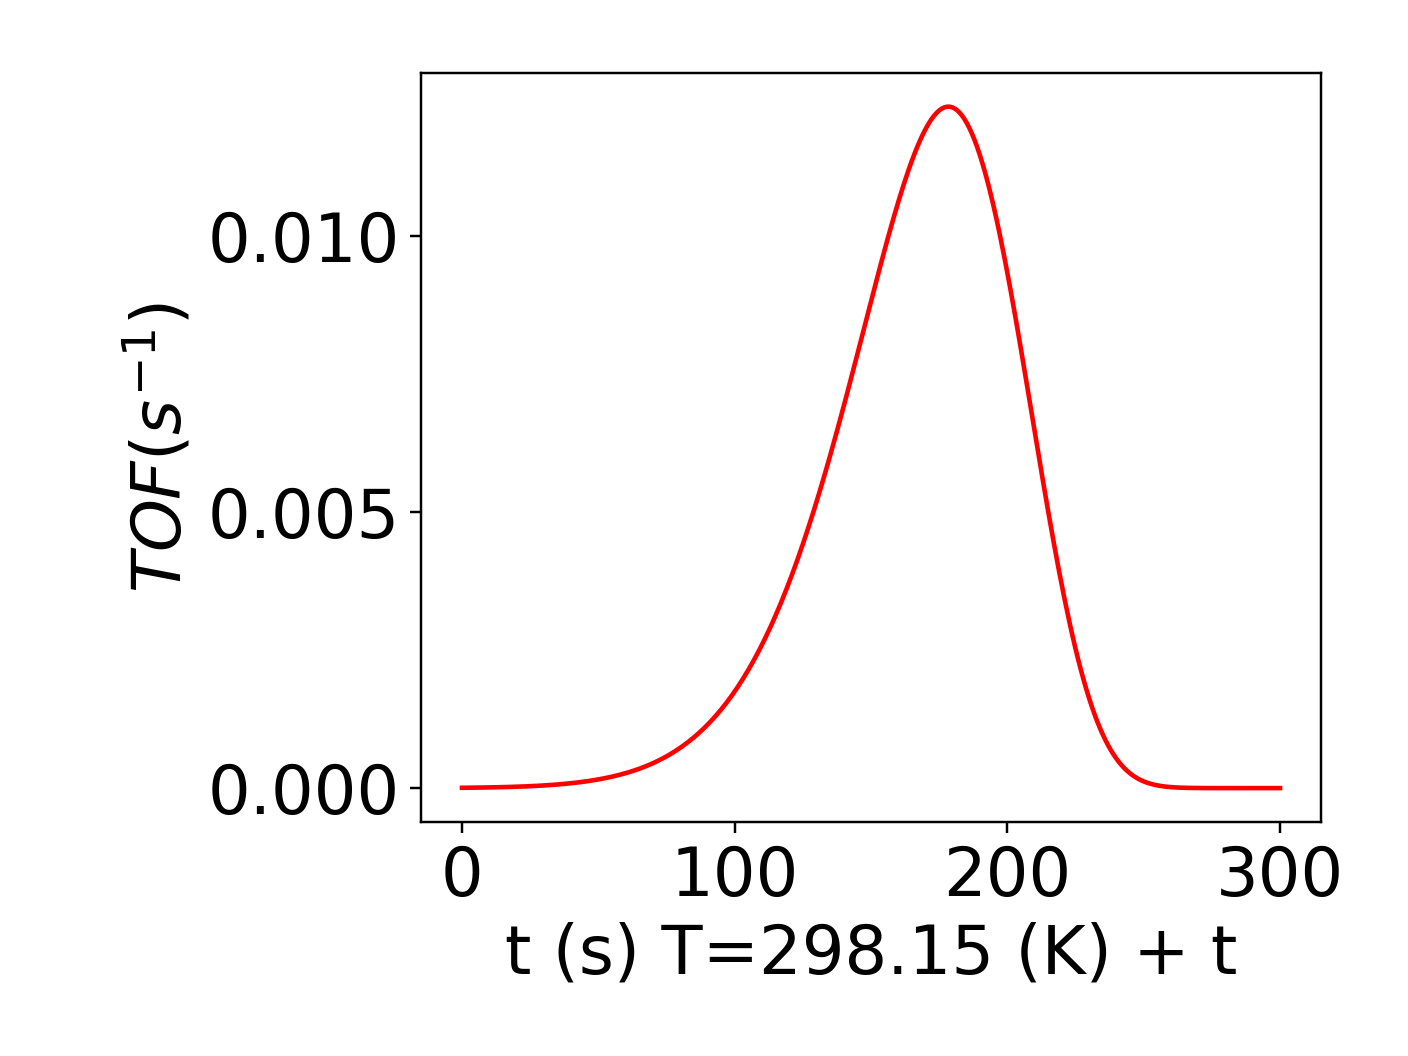
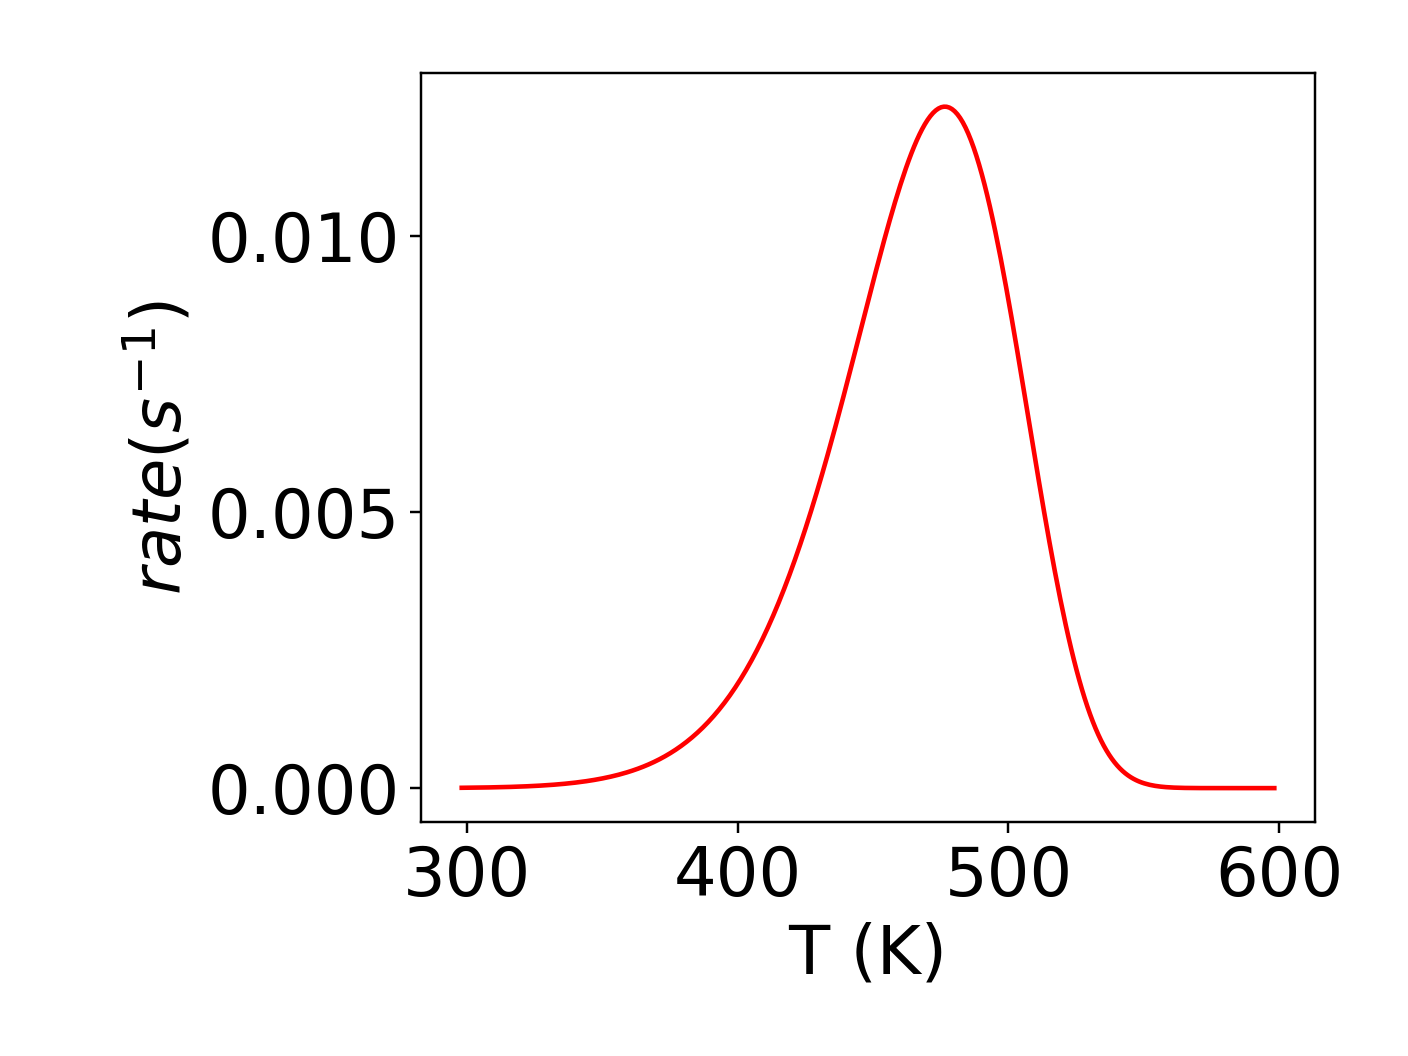
Metropolis-Hastings sampling of the posterior of Bayes's formula for the temperature programmed reaction on CeO2(111).

diff --git a/run_me.py b/run_me.py
@@ -1,0 +1,145 @@
+import numpy as np
+import matplotlib
+import matplotlib.pyplot as plt
+from mpl_toolkits.mplot3d import Axes3D
+import scipy
+from scipy.stats import multivariate_normal
+from scipy.integrate import odeint
+import pandas as pd
+from tprmodel import tprequation
+class ip:
+    #Ip for 'inverse problem'. Initialize prior chain starting point, chain burn-in length and total length, and Q (for proposal samples).  Initialize experimental data.  Theta is initialized as the starting point of the chain.  It is placed at the prior mean.
+    mcmc_length = 1000
+    mcmc_burn_in = 100 # Number of samples trimmed off the beginning of the Markov chain.
+    mu_prior = np.array([41.5, 41.5, 13.0, 13.0, 0.1, 0.1]) # Ea1_mean, Ea2_mean, log_A1_mean, log_A2_mean, gamma_1_mean, gamma_2_mean
+    cov_prior = np.array([[20.0, 0., 0., 0., 0., 0.],
+                          [0., 20.0, 0., 0., 0., 0.],
+                          [0., 0., 13.0, 0., 0., 0.],
+                          [0., 0., 0., 13.0, 0., 0.],
+                          [0., 0., 0., 0., 0.1, 0.],
+                          [0., 0., 0., 0., 0., 0.1]])
+    experiments_df = pd.read_csv('ExperimentalDataAcetaldehydeTPDCeO2111MullinsTruncatedLargerErrors.csv')
+    dT = experiments_df['dT'][0] # assuming dT and dt are constant throughout
+    dt = experiments_df['dt'][0]
+    start_T = experiments_df['AcH - T'][0]
+    times = experiments_df['time'].to_numpy()
+    experiment = experiments_df['AcHBackgroundSubtracted'].to_numpy()/1000
+    errors = experiments_df['Errors'].to_numpy()
+    Q_mu = np.array([0.,0.,0.,0.,0.,0.]) # Q samples the next step at any point in the chain.  The next step may be accepted or rejected.  Q_mu is centered (0) around the current theta.
+    Q_cov = cov_prior/20 # Take small steps.
+
+    #main function to get samples
+    def MetropolisHastings(self):
+        samples = np.zeros((self.mcmc_length,len(self.mu_prior)))
+        samples[0,:] = self.mu_prior # Initialize the chain. Theta is initialized as the starting point of the chain.  It is placed at the prior mean.
+        likelihoods_vec = np.zeros((self.mcmc_length,1))
+        posteriors_un_normed_vec = np.zeros((self.mcmc_length,1))
+        priors_vec = np.zeros((self.mcmc_length,1))
+        for i in range(1,self.mcmc_length):
+            print(i)
+            proposal_sample = samples[i-1,:] + np.random.multivariate_normal(self.Q_mu,self.Q_cov)
+            prior_proposal = self.prior(proposal_sample)
+            likelihood_proposal = self.likelihood(proposal_sample)
+            prior_current_location = self.prior(samples[i-1,:])
+            likelihood_current_location = self.likelihood(samples[i-1,:])
+            accept_pro = (likelihood_proposal*prior_proposal)/(likelihood_current_location*prior_current_location)
+            uni_rand = np.random.uniform()
+            if uni_rand<accept_pro:
+                samples[i,:] = proposal_sample
+                posteriors_un_normed_vec[i] = likelihood_proposal*prior_proposal
+                likelihoods_vec[i] = likelihood_proposal
+                priors_vec[i] = prior_proposal
+            else:
+                samples[i,:] = samples[i-1,:]
+                posteriors_un_normed_vec[i] = likelihood_current_location*prior_current_location
+                likelihoods_vec[i] = likelihood_current_location
+                priors_vec[i] = prior_current_location
+            ########################################
+        samples = samples[self.mcmc_burn_in:]
+        posteriors_un_normed_vec = posteriors_un_normed_vec[self.mcmc_burn_in:]
+        likelihoods_vec = likelihoods_vec[self.mcmc_burn_in:]
+        priors_vec = priors_vec[self.mcmc_burn_in:]
+        # posterior probabilites are transformed to a standard normal (std=1) for obtaining the evidence:
+        evidence = np.mean(posteriors_un_normed_vec)*np.sqrt(2*np.pi*np.std(samples)**2)
+        posteriors_vec = posteriors_un_normed_vec/evidence
+        log_ratios = np.log(posteriors_vec/priors_vec)
+        log_ratios[np.isinf(log_ratios)] = 0
+        log_ratios = np.nan_to_num(log_ratios)
+        info_gain = np.mean(log_ratios)
+        return [evidence, info_gain, samples]
+    def prior(self,sample):
+        probability = multivariate_normal.pdf(x=sample,mean=self.mu_prior,cov=self.cov_prior)
+        return probability
+    def likelihood(self,sample):
+        tpr_theta = odeint(tprequation, [0.5, 0.5], self.times, args = (sample[0], sample[1], sample[2], sample[3], sample[4], sample[5],self.dT,self.dt,self.start_T)) # [0.5, 0.5] are the initial theta's.
+        rate = tprequation(tpr_theta, self.times, sample[0], sample[1], sample[2], sample[3], sample[4], sample[5], self.dT,self.dt,self.start_T)
+        rate_tot = -np.sum(rate, axis=0)
+        #intermediate_metric = np.mean(np.square(rate_tot - self.experiment) / np.square(self.errors ))
+        probability_metric = multivariate_normal.pdf(x=rate_tot,mean=self.experiment,cov=self.errors)
+        print('likelihood probability',probability_metric)
+        return probability_metric
+
+ip_object = ip()
+[evidence, info_gain, samples] = ip_object.MetropolisHastings()
+############################################# The computation portion is contained above.
+post_mean = np.mean(samples, axis=0)
+experiments_df = pd.read_csv('ExperimentalDataAcetaldehydeTPDCeO2111MullinsTruncatedLargerErrors.csv')
+dT = experiments_df['dT'][0] # assuming dT and dt are constant throughout
+dt = experiments_df['dt'][0]
+start_T = experiments_df['AcH - T'][0]
+times = experiments_df['time'].to_numpy()
+experiment = experiments_df['AcHBackgroundSubtracted'].to_numpy()/1000
+errors = experiments_df['Errors'].to_numpy()
+tpr_theta = odeint(tprequation, [0.5, 0.5], times, args = (post_mean[0], post_mean[1], post_mean[2], post_mean[3], post_mean[4], post_mean[5],dT,dt,start_T)) # [0.5, 0.5] are the initial theta's.
+rate = tprequation(tpr_theta, times, post_mean[0], post_mean[1], post_mean[2], post_mean[3], post_mean[4], post_mean[5], dT,dt,start_T)
+rate_tot = -np.sum(rate, axis=0)
+fig1, ax1 = plt.subplots()
+ax1.plot(experiments_df['AcH - T'].to_numpy(),rate_tot, 'r')
+ax1.plot(experiments_df['AcH - T'].to_numpy(),experiments_df['AcHBackgroundSubtracted'].to_numpy()/1000,'g')
+ax1.set_xlabel('T (K)')
+ax1.set_ylabel(r'$rate (s^{-1})$')
+ax1.legend(['model posterior', 'experiments'])
+fig1.tight_layout()
+fig1.savefig('tprposterior.png', dpi=220)
+
+fig2, ax2 = plt.subplots()
+ax2.hist(samples[:,0])
+ax2.set_ylabel('frequency')
+ax2.set_xlabel(r'$E_{a1}$')
+fig2.tight_layout()
+fig2.savefig('Ea1.png', dpi=220)
+
+fig3, ax3 = plt.subplots()
+ax3.hist(samples[:,1])
+ax3.set_ylabel('frequency')
+ax3.set_xlabel(r'$E_{a2}$')
+fig3.tight_layout()
+fig3.savefig('Ea2.png', dpi=220)
+
+fig4, ax4 = plt.subplots()
+ax4.hist(samples[:,2])
+ax4.set_ylabel('frequency')
+ax4.set_xlabel(r'$log(A_{1})$')
+fig4.tight_layout()
+fig4.savefig('logA1.png', dpi=220)
+
+fig5, ax5 = plt.subplots()
+ax5.hist(samples[:,3])
+ax5.set_ylabel('frequency')
+ax5.set_xlabel(r'$log(A_{2})$')
+fig5.tight_layout()
+fig5.savefig('logA2.png', dpi=220)
+
+fig6, ax6 = plt.subplots()
+ax6.hist(samples[:,4])
+ax6.set_ylabel('frequency')
+ax6.set_xlabel(r'$\gamma_{1}$')
+fig6.tight_layout()
+fig6.savefig('gamma1.png', dpi=220)
+
+fig7, ax7 = plt.subplots()
+ax7.hist(samples[:,5])
+ax7.set_ylabel('frequency')
+ax7.set_xlabel(r'$\gamma_{2}$')
+fig7.tight_layout()
+fig7.savefig('gamma2.png', dpi=220)

diff --git a/prelimchemicalexamples/onecomponent.py b/prelimchemicalexamples/onecomponent.py
@@ -5,6 +5,7 @@ import matplotlib.pyplot as plt
 matplotlib.use('Agg')
 import scipy
 from scipy.integrate import odeint
+from scipy.stats import multivariate_normal
 plt.rcParams.update({'font.size': 22})
 log_A_mean = 1.07015244e+01
 Ea_mean =  5.60317080e+04 * 1/1000 * 1/96
@@ -25,11 +26,45 @@ tpr_theta = odeint(onecomponent, theta_t0, t, args = (log_A_mean, Ea_mean))
 T = 298.15 + t 
 TOF = tpr_theta[:,0]*np.exp(-(Ea_mean-kB*T*log_A_mean)/(kB*T)) #tpr_theat
 # is shape (100,1) and we need shape (100,) for the code to run.
-plt.plot(t,TOF, 'r')
-plt.xlabel('t (s) T=298.15 (K) + t')
-plt.ylabel(r'$TOF (s^{-1})$')
-plt.tight_layout()
-plt.savefig('onecomponent.png', dpi=220)
+fig1, ax1 = plt.subplots()
+ax1.plot(T,TOF, 'r')
+ax1.set_xlabel('T (K)')
+ax1.set_ylabel(r'$rate (s^{-1})$')
+fig1.tight_layout()
+fig1.savefig('onecomponent.png', dpi=220)
 ####################### Now, a grid search will be conducted.
 log_A_linspace = np.linspace(log_A_mean*0.9, log_A_mean*1.1, 5)
-
+Ea_linspace = np.linspace(Ea_mean*0.9, Ea_mean*1.1, 5)
+############### First plot in the parameter space.
+Ea_mesh, log_A_mesh = np.meshgrid(Ea_linspace, log_A_linspace)
+pos = np.dstack((Ea_mesh, log_A_mesh))
+cov_prior_param = np.array([[(Ea_mean*0.1)**2, 0], [0, (log_A_mean*0.1)**2]])
+mu_prior_param = np.array([Ea_mean, log_A_mean])
+prob_prior_param = multivariate_normal(mu_prior_param, cov_prior_param)
+Z = prob_prior_param.pdf(pos)
+levels = np.unique(Z.round(decimals=4))
+normed_levels = (levels - levels[0])/(levels[-1] - levels[0])
+colors = [cm.Reds(normed_level) for normed_level in normed_levels]
+fig2, ax2 = plt.subplots()
+cont_cm = ax2.contour(Ea_mesh, log_A_mesh, Z, levels = levels, colors=colors)
+ax2.set_xlabel('Ea (eV)')
+ax2.set_ylabel('log(A)')
+fig2.colorbar(cont_cm)
+ax2.set_xlim([Ea_linspace[0],Ea_linspace[-1]])
+ax2.set_ylim([log_A_linspace[0], log_A_linspace[-1]])
+fig2.tight_layout()
+fig2.savefig('onecomponentpriorcontour.png', dpi=220)
+############### Now map to the observable rate.
+fig3, ax3 = plt.subplots()
+for i, log_A in enumerate(log_A_linspace):
+    for j, Ea in enumerate(Ea_linspace):
+        tpr_theta = odeint(onecomponent, theta_t0, t, args = (log_A, Ea))
+        prob_obs = Z[i, j]
+        k = np.argmin((np.abs(levels-prob_obs))) # gets the closes level
+        rate = tpr_theta[:,0]*np.exp(-(Ea-kB*T*log_A)/(kB*T))
+        ax3.plot(T, rate, color = colors[k]) # colors and levels match indices.
+ax3.set_xlabel('T (K)')
+ax3.set_ylabel(r'$rate (s^{-1})$')
+fig3.colorbar(cont_cm)
+fig3.tight_layout()
+fig3.savefig('onecomponentratecontours.png', dpi=220)

diff --git a/prelimchemicalexamples/twocomponent.py b/prelimchemicalexamples/twocomponent.py
@@ -1,0 +1,58 @@
+# This script solves the prior mean and plots
+# with the experimental data and errors.
+import matplotlib
+import numpy as np
+import matplotlib.cm as cm
+import matplotlib.pyplot as plt
+matplotlib.use('Agg')
+import pandas as pd
+import scipy
+from scipy.integrate import odeint
+from scipy.stats import multivariate_normal
+import sys
+sys.path.append('..') # add one directory up to the path
+from tprmodel import tprequation
+plt.rcParams.update({'font.size': 22})
+Ea1_mean = 41.5 # kJ mol^-1
+Ea2_mean = 41.5
+log_A1_mean = 13.0
+log_A2_mean = 13.0
+gamma_1_mean = 0.1
+gamma_2_mean = 0.1
+Ea1_std = 20.0
+Ea2_std = 20.0
+log_A1_std = 2.5
+log_A2_std = 2.5
+gamma_1_std = 0.1
+gamma_2_std = 0.2
+kB = 1.380649e-26*6.0221409e+23 #kJ mol^-1 K^-1
+
+######################## Import experimental data
+experiments_df = pd.read_csv('../ExperimentalDataAcetaldehydeTPDCeO2111MullinsTruncatedLargerErrors.csv')
+dT = experiments_df['dT'][0] # assuming dT and dt are constant throughout
+dt = experiments_df['dt'][0]
+start_T = experiments_df['AcH - T'][0]
+theta_1_t0 = 0.5 # half of the surface initially coverered with theta_1
+theta_2_t0 = 0.5
+tpr_theta = odeint(tprequation, [theta_1_t0, theta_2_t0], experiments_df['time'].to_numpy(), args = (Ea1_mean, Ea2_mean, log_A1_mean, log_A2_mean, gamma_1_mean, gamma_2_mean,dT,dt,start_T))
+
+rate = tprequation(tpr_theta, experiments_df['time'].to_numpy(), Ea1_mean, Ea2_mean, log_A1_mean, log_A2_mean, gamma_1_mean, gamma_2_mean,dT,dt,start_T)
+print(rate)
+rate = np.asarray(rate)
+print(rate.shape)
+rate_tot = -np.sum(rate, axis=0)
+fig1, ax1 = plt.subplots()
+ax1.plot(experiments_df['AcH - T'].to_numpy(),rate_tot, 'r')
+ax1.set_xlabel('T (K)')
+ax1.set_ylabel(r'$rate (s^{-1})$')
+ax1.legend(['model prior'])
+fig1.tight_layout()
+fig1.savefig('twocomponent.png', dpi=220)
+
+fig2, ax2 = plt.subplots()
+ax2.plot(experiments_df['AcH - T'].to_numpy(),experiments_df['AcHBackgroundSubtracted'].to_numpy()/1000,'g')
+ax2.set_xlabel('T (K)')
+ax2.set_ylabel(r'$rate (s^{-1})/1000$')
+ax2.legend(['experiment'])
+fig2.tight_layout()
+fig2.savefig('experiment.png', dpi=220)

diff --git a/tprmodel.py b/tprmodel.py
@@ -1,0 +1,12 @@
+import numpy as np
+def tprequation(tpr_theta, t, Ea1_mean, Ea2_mean, log_A1_mean, log_A2_mean, gamma_1_mean, gamma_2_mean,dT,dt,start_T):
+    if tpr_theta.ndim == 2:
+        theta_1 = tpr_theta[:,0]
+        theta_2 = tpr_theta[:,1]
+    else:
+        [theta_1, theta_2] = tpr_theta
+    T = start_T + dT/dt*t
+    kB = 1.380649e-26*6.0221409e+23 #kJ mol^-1 K^-1
+    rate_1 = theta_1*np.exp(-(Ea1_mean-kB*T*log_A1_mean-gamma_1_mean*theta_1)/(kB*T))
+    rate_2 = theta_2*np.exp(-(Ea2_mean-kB*T*log_A2_mean-gamma_2_mean*theta_2)/(kB*T))
+    return [-rate_1, -rate_2]
